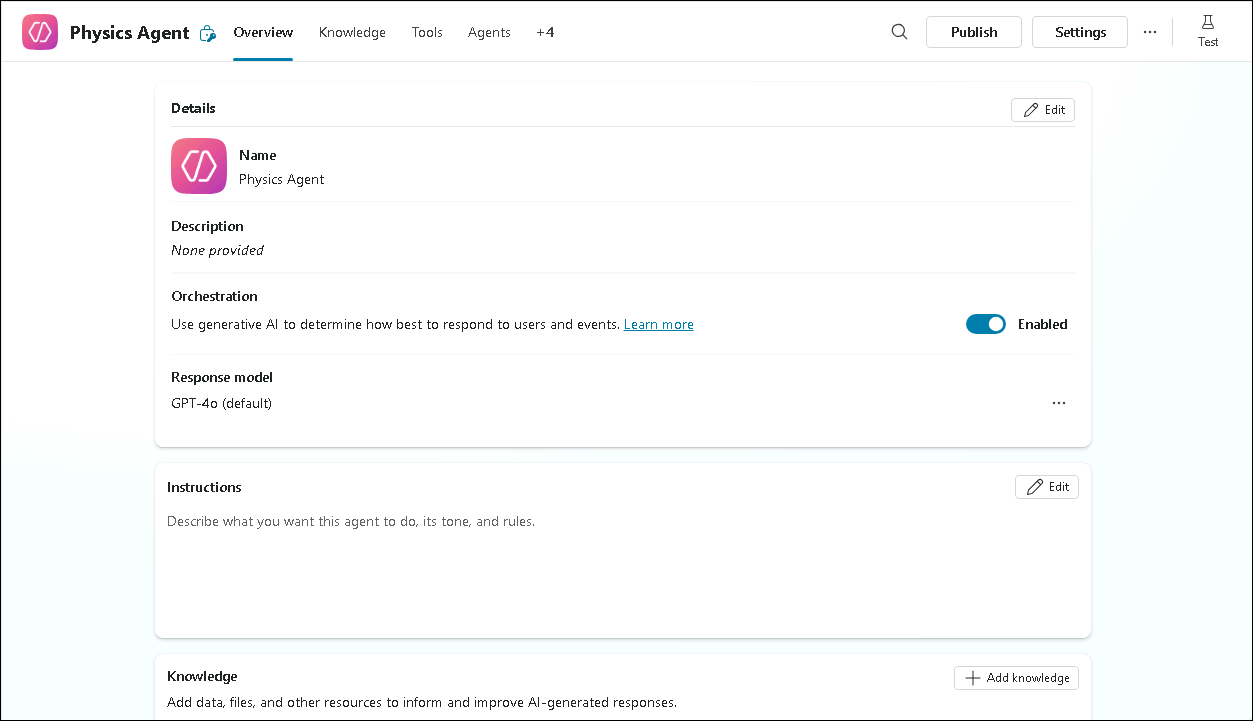
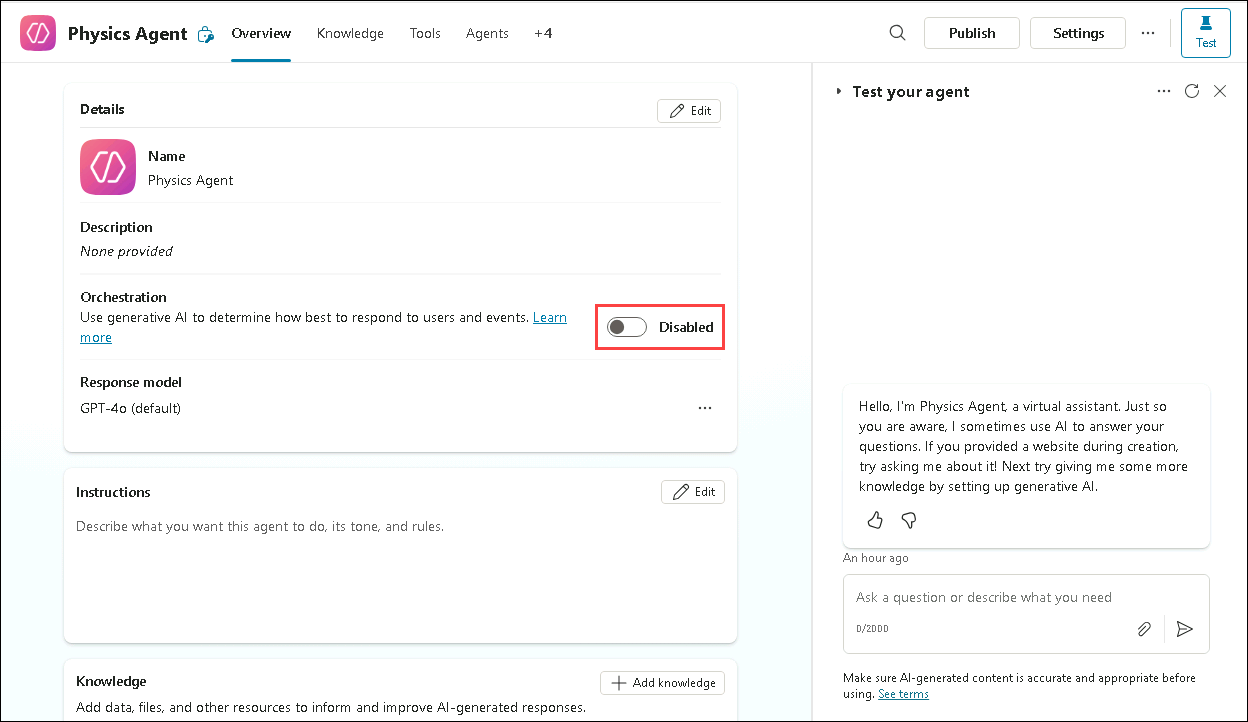
Commit

diff --git a/Instructions/exercise4.md b/Instructions/exercise4.md
@@ -26,13 +26,13 @@ In this task, you will integrate your RAG solution with a demo website, using it
 
    ![](../media/ex4img2.png)
 
-1. Under **Authentication**, choose **No authentication (1)** option, as we are publishing the agent as a website. Click on **Save (2)**.
+1. Under **Authentication**, choose **No authentication (1)** option, as we are publishing the agent as a website. Click on **Save (2)**. **Close** settings from top right of the settings menu.
 
    ![](../media/ex4img3.png)
 
 1. Once the authentication part is done, navigate to **Channels (1)** tab and check that many options are available to publish the agent, but in this lab we will be using **Demo webiste (2)** option, so click on that.
 
-   ![](../media/ex4img4.png)
+   ![](../media/E4T2S5.png)
 
    >Other Options:
 

diff --git a/Instructions/exercise3.md b/Instructions/exercise3.md
@@ -32,7 +32,7 @@ In this task, you will create an agent in Copilot Studio. The agent will leverag
 
    ![](../media/ex4img6.png)
 
-1. Now you have successfully created a agent. You will be configuring the agent in the further tasks.
+1. Now you have successfully created a agent. You will be configuring the agent in the further tasks. Ensure the **Orchestration** is **Disabled**.
 
    ![](../media/E3T1S4.png)
 
